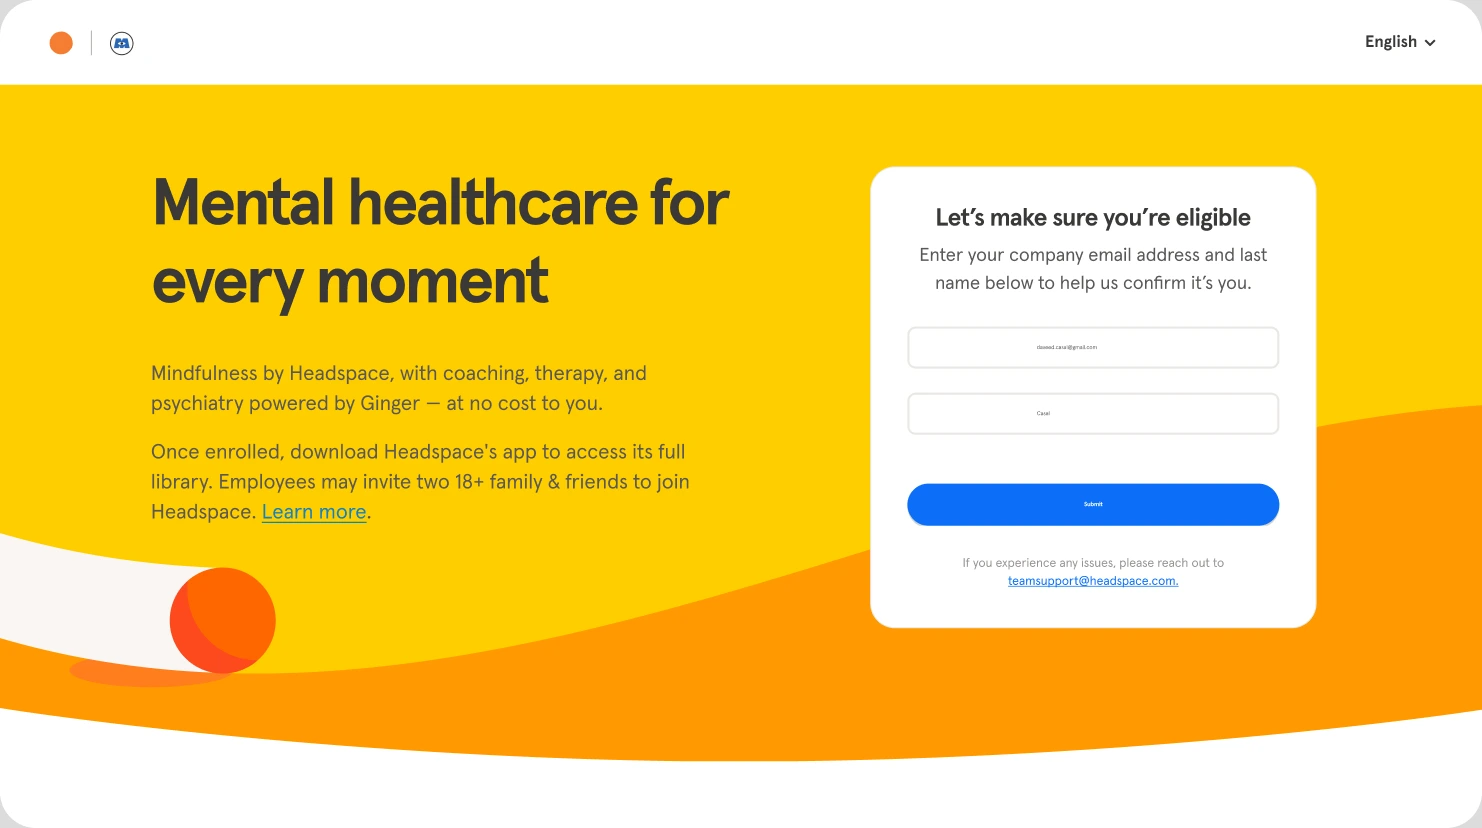
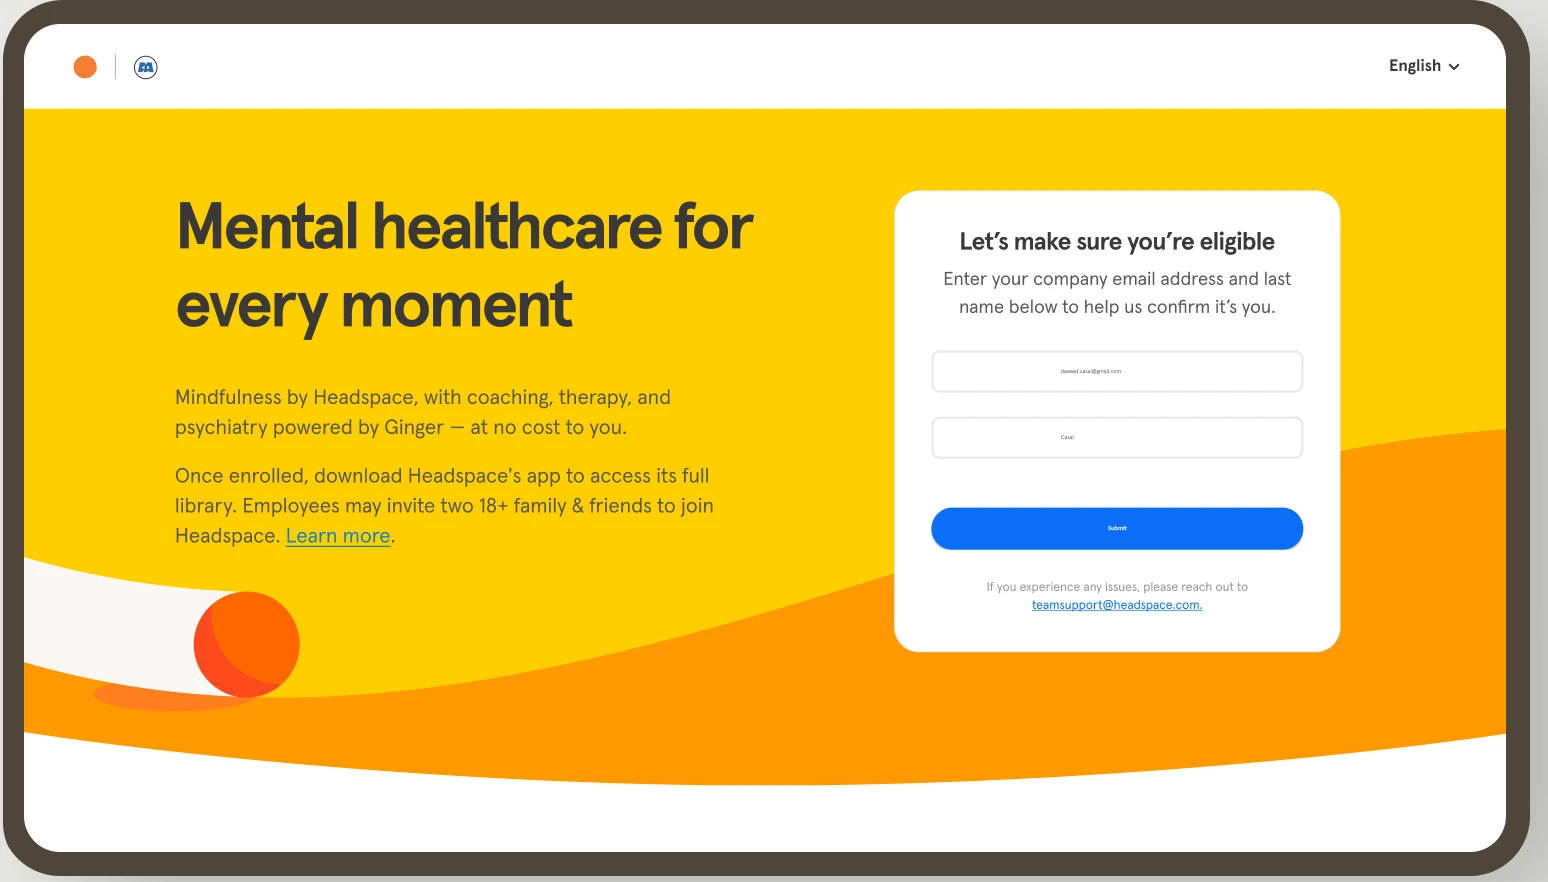
Standardize case-study mockups on baked-in bezels, unify card markup
Re-export Yahoo/Headspace/Airbnb device mockups from Figma with the
bezel (border, 12px radius) baked into the pixels instead of drawn in
CSS, retiring the earlier cqw container-query workaround entirely.
All three cards now share identical markup: an outer frame sized to
Figma's own 714x404 reference (guide rectangles added to the file),
an inset/centered inner layer carrying the exact DROP_SHADOW effect
read off the Mask group nodes (offset 19/14, blur 46, rgba(0,0,0,.24)
— not the stale value from an old code comment), and object-cover on
the image so no aspect-ratio mismatch between an exported asset and
its crop box can leave a visible gap on any edge.

diff --git a/src/app/page.tsx b/src/app/page.tsx
@@ -261,68 +261,59 @@ export default function Home() {
               {projects.map((project) => {
                 const isLinked = Boolean(project.href);
                 const image = project.image ? (
-                  // Neutral card, per Figma 643:52558/643:52618: a 711×402
-                  // #eaeae5 card (border #d2d2d2, top corners radius 4)
-                  // with the device mockup inset at that row's own
-                  // confirmed box — Yahoo/Headspace and Airbnb aren't the
-                  // same size/shape in Figma, so each carries its own
-                  // `inset` rather than sharing one (a shared box left the
-                  // code-drawn shadow tracing a rectangle that didn't
-                  // match Airbnb's actual mockup bounds).
+                  // Two-layer structure, both tiers' numbers pulled
+                  // directly from Figma (784:121621/791:129913/784:121479)
+                  // via two guide rectangles the design added to each node
+                  // (get_design_context) plus the real DROP_SHADOW effect
+                  // on each "Mask group" layer (read via the Plugin API,
+                  // node.effects — not visible in the get_design_context
+                  // hint output, so it has to be read directly).
                   //
-                  // [container-type:inline-size]: lets the bezel border
-                  // below query this card's own rendered width instead of
-                  // the viewport's, so it can scale down at narrower card
-                  // widths (see border-[clamp(...)] below).
+                  // Outer = the red guide frame: 714×404, the total space
+                  // Figma allots per card including shadow bleed. No
+                  // overflow-hidden here — the shadow needs room to render
+                  // inside these bounds, not get clipped at them.
+                  //
+                  // Inner = the green guide frame: 520×302 positioned at
+                  // (94, 49) within the outer 714×404 — i.e. inset
+                  // 12.13% top / 14.01% right / 13.12% bottom / 13.17% left,
+                  // identical on all three nodes. This carries the exact
+                  // Figma shadow (offset 19/14, blur 46, spread 0,
+                  // rgba(0,0,0,0.24)) and, one level deeper, the
+                  // overflow-hidden crop for the image — kept separate from
+                  // the shadow layer so clipping the image never clips the
+                  // shadow with it (the earlier bug).
                   <div
-                    className="relative w-full overflow-hidden rounded-t-[4px] border-l border-r border-t border-[#d2d2d2] bg-[#eaeae5] [container-type:inline-size]"
-                    style={{ aspectRatio: "711 / 402" }}
+                    className="relative w-full rounded-t-[4px] border-l border-r border-t border-[#d2d2d2] bg-[#eaeae5]"
+                    style={{ aspectRatio: "714 / 404" }}
                   >
                     <div
-                      className={
-                        project.image.bezel
-                          ? // 8px border at Figma's confirmed 711px-wide
-                            // reference frame (784:121621/791:129913,
-                            // get_design_context) is 8/711 = 1.1252cqw of
-                            // this card's own width — fixed border-8 held
-                            // that literal 8px at any card width, so it
-                            // read thicker than the design at narrower
-                            // viewports even as the card (and its inset
-                            // mockup box) shrank around it. cqw scales the
-                            // stroke down with the card; clamp holds it
-                            // between 2px and 10px so it never vanishes or
-                            // overshoots at extreme widths.
-                            "absolute overflow-hidden rounded-[12px] border-[clamp(2px,1.1252cqw,10px)] border-[#4f453b]"
-                          : // Asset already has its own border baked in
-                            // (Figma export, 784:121481) — inset only, no
-                            // second code-drawn border.
-                            "absolute overflow-hidden rounded-[12px]"
-                      }
-                      style={{
-                        inset: project.image.inset,
-                        // Drop shadow, read from Figma's own effect values
-                        // (SVG filter for 643:52558/643:52618's screenshot
-                        // frame; box-shadow for Airbnb's 643:52702) — kept
-                        // in code rather than baked into the asset so it
-                        // isn't clipped by the inset/overflow treatment.
-                        boxShadow: project.image.bezel
-                          ? "19px 25px 26px 0px rgba(0,0,0,0.25)"
-                          : "19px 14px 46px 0px rgba(0,0,0,0.25)",
-                      }}
+                      className="absolute inset-[12.13%_14.01%_13.12%_13.17%]"
+                      style={{ boxShadow: "19px 14px 46px 0px rgba(0,0,0,0.24)" }}
                     >
-                      <Image
-                        src={project.image.src}
-                        alt={project.image.alt}
-                        width={project.image.width}
-                        height={project.image.height}
-                        // object-cover for all three: object-contain
-                        // (previously used for Airbnb's bezel:false asset)
-                        // letterboxed whenever the exported asset's aspect
-                        // ratio didn't exactly match this inset box, leaving
-                        // a visible background-color gap. Cover crops to
-                        // fill instead — matches Yahoo/Headspace.
-                        className="h-full w-full object-cover"
-                      />
+                      {/* object-cover, not contain: measured via
+                          getBoundingClientRect that this crop box and its
+                          shadow-layer parent are pixel-identical (no drift
+                          between those two) — the visible line at the
+                          bottom edge was object-contain letterboxing,
+                          since none of the exported assets' aspect ratios
+                          exactly match this box's own (~1.726 vs
+                          1.746–1.755), leaving a thin gap where the
+                          (transparent) crop layer showed the outer card's
+                          background through. cover guarantees full
+                          coverage on every edge by definition — no aspect
+                          match required — at the cost of cropping a
+                          negligible sliver (~1–2%) off the mockup's own
+                          edges, which already carry their own margin. */}
+                      <div className="h-full w-full overflow-hidden rounded-[12px]">
+                        <Image
+                          src={project.image.src}
+                          alt={project.image.alt}
+                          width={project.image.width}
+                          height={project.image.height}
+                          className="h-full w-full object-cover"
+                        />
+                      </div>
                     </div>
                   </div>
                 ) : (

diff --git a/src/lib/home.ts b/src/lib/home.ts
@@ -15,25 +15,12 @@ export type Project = {
     | {
         src: string;
         alt: string;
+        /** Intrinsic pixel dimensions of the exported asset — the device
+         * bezel (border + corner radius) is baked into these pixels, not
+         * drawn in CSS, so every card uses identical markup regardless of
+         * each mockup's own aspect ratio in Figma. */
         width: number;
         height: number;
-        /** Inset of the device mockup within the outer #eaeae5 card, as a
-         * CSS `inset` value (top right bottom left) — pulled from each
-         * row's own Figma frame, not shared: Yahoo/Headspace's mockup box
-         * and Airbnb's aren't the same size in the design, and forcing
-         * Airbnb into a borrowed box is what caused the code-drawn shadow
-         * to sit around the wrong rectangle instead of the visible mockup
-         * (the asset's own aspect ratio matches its *own* Figma frame
-         * exactly, so using any other box re-introduces the mismatch). */
-        inset: string;
-        /** Draw the 8px #4f453b bezel + drop shadow around the inset
-         * image in code (raw screenshots, per Figma 643:52558/643:52618,
-         * shadow 19px/25px/26px #000 25%). False for an asset that already
-         * has its own border baked in from a Figma export (Airbnb's
-         * mockup, 643:52702) but still needs the shadow drawn in code
-         * (19px/14px/46px #000 25%) — object-contain so the baked-in
-         * frame never gets cropped. */
-        bezel: boolean;
       }
     | null;
   imageLabel: string;
@@ -49,12 +36,10 @@ export const projects: Project[] = [
       'Yahoo\'s partner portal had stagnated in "Keep Lights On" mode, leaving 8,700+ media partners without the tools to understand how their content was performing on Yahoo. This project set out to change that.',
     href: "/work/yahoo-partner-portal",
     image: {
-      src: "/ypp/thumbnail.webp",
-      alt: "Screenshot of the Yahoo Partner Portal analytics overview dashboard",
-      width: 2772,
-      height: 1556,
-      inset: "15.92% 15.89% 15.42% 14.63%",
-      bezel: true,
+      src: "/yahoo/thumbnail.webp",
+      alt: "Screenshot of the Yahoo Partner Portal analytics overview dashboard, with the device bezel baked into the image",
+      width: 1530,
+      height: 876,
     },
     imageLabel: "",
     skills: [
@@ -73,11 +58,9 @@ export const projects: Project[] = [
     href: "/work/headspace-admin-portal",
     image: {
       src: "/headspace/thumbnail.webp",
-      alt: "Screenshot of the Headspace enrollment eligibility screen from the Unified Main Door admin portal",
-      width: 1482,
-      height: 828,
-      inset: "15.92% 15.89% 15.42% 14.63%",
-      bezel: true,
+      alt: "Screenshot of the Headspace enrollment eligibility screen from the Unified Main Door admin portal, with the device bezel baked into the image",
+      width: 1548,
+      height: 882,
     },
     imageLabel: "",
     skills: [
@@ -97,19 +80,8 @@ export const projects: Project[] = [
     image: {
       src: "/airbnb/thumbnail.webp",
       alt: "Figma mockup of the Airbnb hotel partner account creation and onboarding flow, showing the welcome screen with a Get started button",
-      width: 1529,
-      height: 879,
-      // 784:121479's own confirmed frame (Portfolio-2026 file) — not
-      // Yahoo/Headspace's box. Deliberately a different size/shape in
-      // Figma, and object-cover (see page.tsx) fills this box regardless
-      // of the exported asset's exact aspect ratio.
-      inset: "12.44% 14.87% 11.44% 14.03%",
-      // Cropped from the Figma export (784:121481, "Mask group", 3x scale
-      // via a temporary rescaled clone for higher resolution) to just the
-      // bordered mockup — the raw export baked in drop-shadow bleed on a
-      // transparent backdrop. Border is still baked in; the shadow is
-      // drawn in code instead (see `bezel` above).
-      bezel: false,
+      width: 1545,
+      height: 882,
     },
     imageLabel: "",
     skills: [
